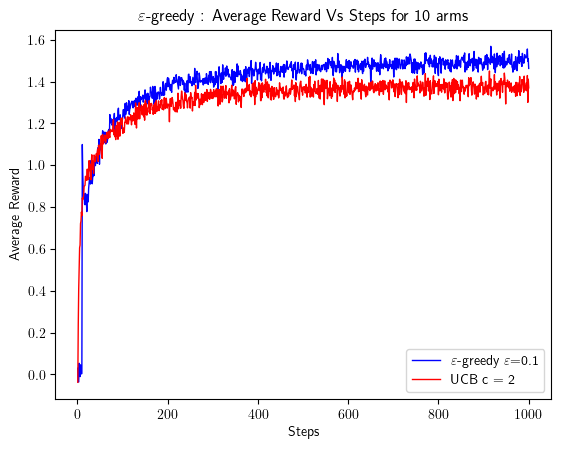
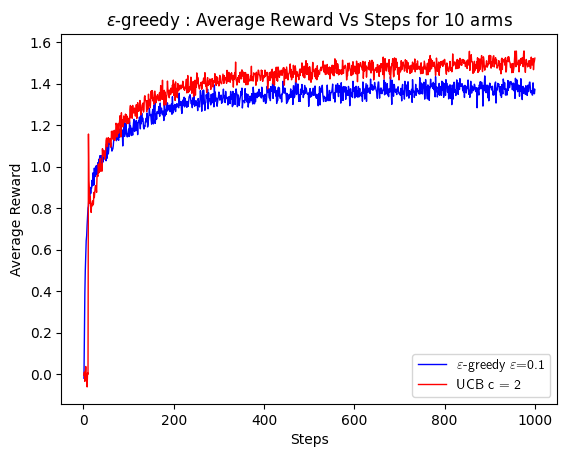
modify ucb code

Changed region(s): [[0.0, 0.0, 1.0, 0.9354], [0.5152, 0.9354, 0.5758, 0.9978]]

diff --git a/Chapter2-Multi-amred-Bandits/4-ucb.py b/Chapter2-Multi-amred-Bandits/4-ucb.py
@@ -12,7 +12,8 @@ q_true = np.random.normal(0, 1, (n_bandit, k))  # true value
 
 fig1=plt.figure().add_subplot(111)
 
-methods = ['ucb', 'epsilon-greedy']
+methods = ['epsilon-greedy','ucb']
+epsilon = 0.1
 
 
 for c, m in enumerate(methods):
